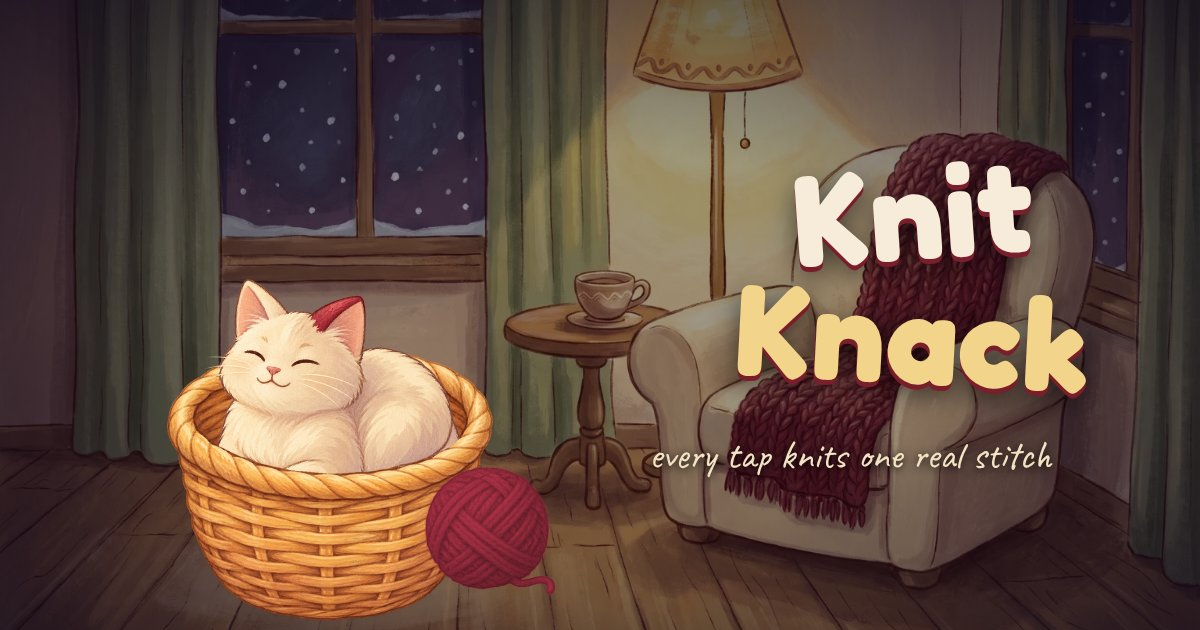
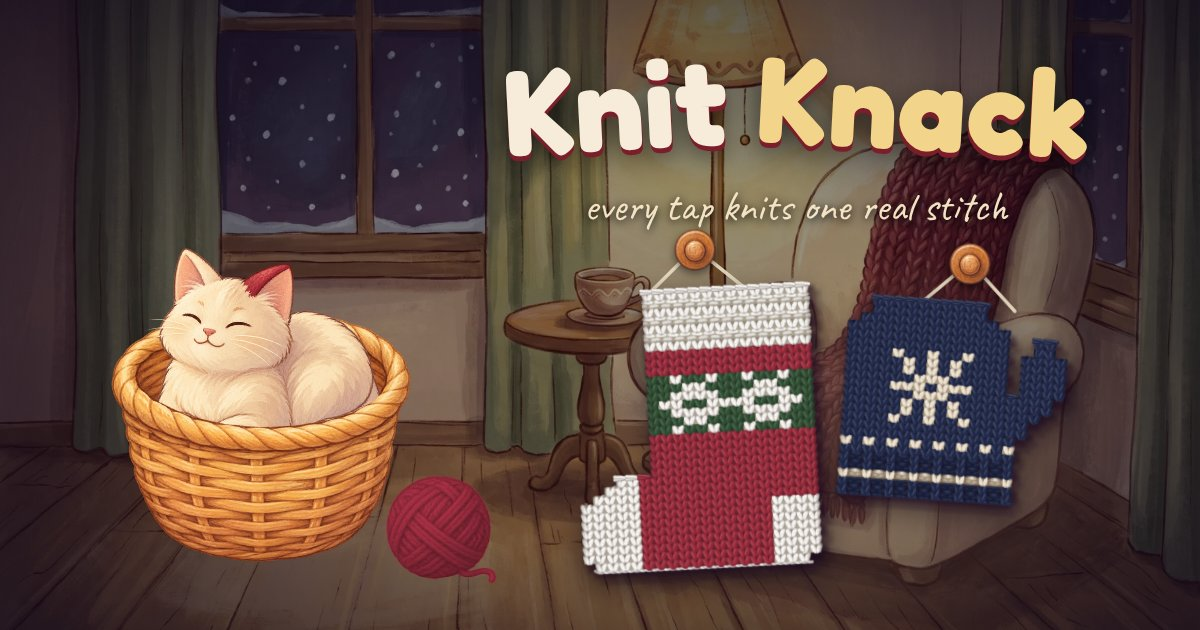
README, screenshots, social card and GitHub preview
The README tours the book, yarns, dolls, Knitting Bag and Infinite Scarf with
screenshots of the running game, and covers how to play, how it was made,
replaying the tests and credits. The social card is remade with a knitted
stocking and mitten drawn by the game's own renderer, and the GitHub preview
is made from the same page at 1280x640.

diff --git a/design/social-card.html b/design/social-card.html
@@ -1,17 +1,62 @@
-<!DOCTYPE html><html><head><meta charset="utf-8"><style>
+<!DOCTYPE html><html><head><meta charset="utf-8">
+<!-- Knit Knack social card, 1200x630. Serve the project root and screenshot at 1200x630
+     once <body data-ready> is set. The knitted pieces are drawn live by the game's own renderer. -->
+<style>
 @font-face { font-family: 'Fredoka'; src: url('../game/fonts/Fredoka.woff2'); font-weight: 300 700; }
 @font-face { font-family: 'Caveat'; src: url('../game/fonts/Caveat.woff2'); }
-html,body{margin:0;width:1200px;height:630px;overflow:hidden;background:#2a1f3d}
-.bg{position:absolute;inset:0;background:url('../game/assets/bg/nook-land.webp') center 70%/cover;filter:brightness(.62) saturate(.95)}
-.v{position:absolute;inset:0;background:radial-gradient(ellipse at 50% 55%,rgba(12,6,24,0) 40%,rgba(12,6,24,.7))}
-.stack{position:absolute;left:150px;top:300px;width:360px;height:360px}
-.stack img{position:absolute;left:0;top:0;width:360px}
-.purl{left:36px!important;top:-56px!important;width:288px!important}
-.ball{position:absolute;left:420px;top:460px;width:140px;height:140px;background:#b8344a;-webkit-mask:url('../game/assets/items/yarn-wool.png') center/contain no-repeat;mask:url('../game/assets/items/yarn-wool.png') center/contain no-repeat}.ball img{width:100%;height:100%;mix-blend-mode:multiply}
-h1{position:absolute;right:110px;top:150px;margin:0;font-family:Fredoka;font-weight:700;font-size:130px;line-height:.95;text-align:center;color:#f6ecd9;text-shadow:0 5px 0 #7a1e2c,0 10px 28px rgba(0,0,0,.6)}
-h1 span{display:block}h1 .b{color:#f2d48a;transform:rotate(3deg)}h1 .a{transform:rotate(-4deg)}
-p{position:absolute;right:90px;top:430px;width:520px;margin:0;font-family:Caveat;font-size:40px;color:#f3e3c4;text-align:center;text-shadow:0 2px 10px #000}
-</style></head><body><div class="bg"></div><div class="v"></div>
+html,body{margin:0;width:var(--w,1200px);height:var(--h,630px);overflow:hidden;background:#2a1f3d}
+.bg{position:absolute;inset:0;background:url('../game/assets/bg/nook-land.webp') center 72%/cover;filter:brightness(.58) saturate(.95)}
+.v{position:absolute;inset:0;background:radial-gradient(ellipse at 50% 55%,rgba(12,6,24,0) 38%,rgba(12,6,24,.72))}
+.glow{position:absolute;left:var(--gx,560px);top:var(--gy,230px);width:620px;height:420px;background:radial-gradient(ellipse at 50% 50%,rgba(255,214,150,.28),rgba(255,214,150,0) 65%)}
+.stack{position:absolute;left:var(--sx,96px);top:var(--sy,268px);width:330px;height:330px}
+.stack img{position:absolute;left:0;top:0;width:330px}
+.stack .purl{left:33px;top:-52px;width:264px}
+.ball{position:absolute;left:var(--bx,382px);top:var(--by,470px);width:118px;height:118px;background:#b8344a;-webkit-mask:url('../game/assets/items/yarn-wool.png') center/contain no-repeat;mask:url('../game/assets/items/yarn-wool.png') center/contain no-repeat}
+.ball img{width:100%;height:100%;mix-blend-mode:multiply}
+h1{position:absolute;left:var(--tx,470px);width:var(--tw,650px);top:var(--ty,44px);margin:0;font-family:Fredoka;font-weight:700;font-size:var(--ts,122px);line-height:1;text-align:center;color:#f6ecd9;text-shadow:0 5px 0 #7a1e2c,0 10px 28px rgba(0,0,0,.6);white-space:nowrap}
+h1 .b{color:#f2d48a;display:inline-block;transform:rotate(3deg)}h1 .a{display:inline-block;transform:rotate(-3deg)}
+p{position:absolute;left:var(--tx,470px);width:var(--tw,650px);top:var(--py,180px);margin:0;font-family:Caveat;font-size:42px;color:#f3e3c4;text-align:center;text-shadow:0 2px 10px #000}
+.piece{position:absolute;filter:drop-shadow(0 10px 14px rgba(10,4,20,.55))}
+.peg{position:absolute;filter:drop-shadow(0 3px 4px rgba(0,0,0,.5))}
+</style></head><body><div class="bg"></div><div class="v"></div><div class="glow"></div>
 <div class="stack"><img src="../game/assets/sprites/basket-back.png"><img class="purl" src="../game/assets/sprites/purl-cat.png"><img src="../game/assets/sprites/basket-front.png"></div>
 <div class="ball"><img src="../game/assets/items/yarn-wool.png"></div>
-<h1><span class="a">Knit</span><span class="b">Knack</span></h1><p>every tap knits one real stitch</p></body></html>
+<h1><span class="a">Knit</span> <span class="b">Knack</span></h1>
+<p>every tap knits one real stitch</p>
+<script type="module">
+import P from '../game/src/patterns.js';
+import { patternRender, suggestedSlots, trimmed } from '../game/src/render.js';
+const css = getComputedStyle(document.documentElement);
+const num = (k, d) => parseFloat(css.getPropertyValue(k)) || d;
+// [pattern, box left, top, max width, max height, tilt]
+const pieces = [
+  ['holiday-stocking', num('--p1x', 560), num('--p1y', 286), 270, 300, -3],
+  ['snowflake-mitten', num('--p2x', 850), num('--p2y', 300), 240, 270, 4],
+];
+for (const [id, x, y, w, h, tilt] of pieces) {
+  const p = P.find((q) => q.id === id);
+  const src = trimmed(patternRender(p, suggestedSlots(p), 20));
+  const k = Math.min(w / src.width, h / src.height);
+  const c = document.createElement('canvas');
+  c.width = Math.round(src.width * k * 2); c.height = Math.round(src.height * k * 2);
+  const g = c.getContext('2d'); g.imageSmoothingQuality = 'high'; g.drawImage(src, 0, 0, c.width, c.height);
+  const cw = c.width / 2, ch = c.height / 2, top = 58;
+  c.className = 'piece';
+  Object.assign(c.style, { width: cw + 'px', height: ch + 'px', left: 0, top: top + 'px' });
+  // hung from a gallery peg on a yarn loop, tilted round the peg
+  const wrap = document.createElement('div');
+  Object.assign(wrap.style, { position: 'absolute', left: x + (w - cw) / 2 + 'px', top: y - top + 'px', width: cw + 'px', height: ch + top + 'px', transform: `rotate(${tilt}deg)`, transformOrigin: `50% 22px` });
+  const svg = document.createElementNS('http://www.w3.org/2000/svg', 'svg');
+  svg.setAttribute('width', cw); svg.setAttribute('height', top + 12); svg.style.position = 'absolute'; svg.style.left = 0; svg.style.top = 0;
+  svg.innerHTML = `<path d="M${cw * 0.3} ${top + 8} L${cw / 2} 20 L${cw * 0.7} ${top + 8}" fill="none" stroke="#e9dcc2" stroke-width="3.5" stroke-linecap="round" stroke-linejoin="round" opacity=".95"/>`;
+  wrap.append(svg, c);
+  document.body.append(wrap);
+  const peg = document.createElement('img');
+  peg.src = '../game/assets/items/gallery-peg.png'; peg.className = 'peg';
+  Object.assign(peg.style, { left: x + w / 2 - 22 + 'px', top: y - top + 0 + 'px', width: '44px' });
+  document.body.append(peg);
+}
+await document.fonts.ready;
+await Promise.all([...document.images].map((i) => i.decode().catch(() => {})));
+document.body.dataset.ready = '1';
+</script></body></html>

diff --git a/design/github-social.html b/design/github-social.html
@@ -1,0 +1,63 @@
+<!DOCTYPE html><html><head><meta charset="utf-8">
+<!-- Knit Knack GitHub preview, 1280x640 (the social card, rebalanced for the wider shape). Serve the project root and screenshot at 1280x640
+     once <body data-ready> is set. The knitted pieces are drawn live by the game's own renderer. -->
+<style>
+@font-face { font-family: 'Fredoka'; src: url('../game/fonts/Fredoka.woff2'); font-weight: 300 700; }
+@font-face { font-family: 'Caveat'; src: url('../game/fonts/Caveat.woff2'); }
+html{--w:1280px;--h:640px;--sx:150px;--sy:262px;--bx:440px;--by:458px;--tx:500px;--tw:640px;--ty:76px;--ts:118px;--py:208px;--gx:600px;--gy:250px}
+html,body{margin:0;width:var(--w,1200px);height:var(--h,630px);overflow:hidden;background:#2a1f3d}
+.bg{position:absolute;inset:0;background:url('../game/assets/bg/nook-land.webp') center 72%/cover;filter:brightness(.58) saturate(.95)}
+.v{position:absolute;inset:0;background:radial-gradient(ellipse at 50% 55%,rgba(12,6,24,0) 38%,rgba(12,6,24,.72))}
+.glow{position:absolute;left:var(--gx,560px);top:var(--gy,230px);width:620px;height:420px;background:radial-gradient(ellipse at 50% 50%,rgba(255,214,150,.28),rgba(255,214,150,0) 65%)}
+.stack{position:absolute;left:var(--sx,96px);top:var(--sy,268px);width:330px;height:330px}
+.stack img{position:absolute;left:0;top:0;width:330px}
+.stack .purl{left:33px;top:-52px;width:264px}
+.ball{position:absolute;left:var(--bx,382px);top:var(--by,470px);width:118px;height:118px;background:#b8344a;-webkit-mask:url('../game/assets/items/yarn-wool.png') center/contain no-repeat;mask:url('../game/assets/items/yarn-wool.png') center/contain no-repeat}
+.ball img{width:100%;height:100%;mix-blend-mode:multiply}
+h1{position:absolute;left:var(--tx,470px);width:var(--tw,650px);top:var(--ty,44px);margin:0;font-family:Fredoka;font-weight:700;font-size:var(--ts,122px);line-height:1;text-align:center;color:#f6ecd9;text-shadow:0 5px 0 #7a1e2c,0 10px 28px rgba(0,0,0,.6);white-space:nowrap}
+h1 .b{color:#f2d48a;display:inline-block;transform:rotate(3deg)}h1 .a{display:inline-block;transform:rotate(-3deg)}
+p{position:absolute;left:var(--tx,470px);width:var(--tw,650px);top:var(--py,180px);margin:0;font-family:Caveat;font-size:42px;color:#f3e3c4;text-align:center;text-shadow:0 2px 10px #000}
+.piece{position:absolute;filter:drop-shadow(0 10px 14px rgba(10,4,20,.55))}
+.peg{position:absolute;filter:drop-shadow(0 3px 4px rgba(0,0,0,.5))}
+</style></head><body><div class="bg"></div><div class="v"></div><div class="glow"></div>
+<div class="stack"><img src="../game/assets/sprites/basket-back.png"><img class="purl" src="../game/assets/sprites/purl-cat.png"><img src="../game/assets/sprites/basket-front.png"></div>
+<div class="ball"><img src="../game/assets/items/yarn-wool.png"></div>
+<h1><span class="a">Knit</span> <span class="b">Knack</span></h1>
+<p>every tap knits one real stitch</p>
+<script type="module">
+import P from '../game/src/patterns.js';
+import { patternRender, suggestedSlots, trimmed } from '../game/src/render.js';
+const css = getComputedStyle(document.documentElement);
+const num = (k, d) => parseFloat(css.getPropertyValue(k)) || d;
+// [pattern, box left, top, max width, max height, tilt]
+const pieces = [
+  ['holiday-stocking', 610, 322, 236, 244, -3],
+  ['snowflake-mitten', 876, 334, 220, 228, 4],
+];
+for (const [id, x, y, w, h, tilt] of pieces) {
+  const p = P.find((q) => q.id === id);
+  const src = trimmed(patternRender(p, suggestedSlots(p), 20));
+  const k = Math.min(w / src.width, h / src.height);
+  const c = document.createElement('canvas');
+  c.width = Math.round(src.width * k * 2); c.height = Math.round(src.height * k * 2);
+  const g = c.getContext('2d'); g.imageSmoothingQuality = 'high'; g.drawImage(src, 0, 0, c.width, c.height);
+  const cw = c.width / 2, ch = c.height / 2, top = 58;
+  c.className = 'piece';
+  Object.assign(c.style, { width: cw + 'px', height: ch + 'px', left: 0, top: top + 'px' });
+  // hung from a gallery peg on a yarn loop, tilted round the peg
+  const wrap = document.createElement('div');
+  Object.assign(wrap.style, { position: 'absolute', left: x + (w - cw) / 2 + 'px', top: y - top + 'px', width: cw + 'px', height: ch + top + 'px', transform: `rotate(${tilt}deg)`, transformOrigin: `50% 22px` });
+  const svg = document.createElementNS('http://www.w3.org/2000/svg', 'svg');
+  svg.setAttribute('width', cw); svg.setAttribute('height', top + 12); svg.style.position = 'absolute'; svg.style.left = 0; svg.style.top = 0;
+  svg.innerHTML = `<path d="M${cw * 0.3} ${top + 8} L${cw / 2} 20 L${cw * 0.7} ${top + 8}" fill="none" stroke="#e9dcc2" stroke-width="3.5" stroke-linecap="round" stroke-linejoin="round" opacity=".95"/>`;
+  wrap.append(svg, c);
+  document.body.append(wrap);
+  const peg = document.createElement('img');
+  peg.src = '../game/assets/items/gallery-peg.png'; peg.className = 'peg';
+  Object.assign(peg.style, { left: x + w / 2 - 22 + 'px', top: y - top + 0 + 'px', width: '44px' });
+  document.body.append(peg);
+}
+await document.fonts.ready;
+await Promise.all([...document.images].map((i) => i.decode().catch(() => {})));
+document.body.dataset.ready = '1';
+</script></body></html>

diff --git a/game/index.html b/game/index.html
@@ -19,12 +19,12 @@
 <meta property="og:image" content="https://knitknack.synapticnoise.com/social-card.jpg">
 <meta property="og:image:width" content="1200">
 <meta property="og:image:height" content="630">
-<meta property="og:image:alt" content="A cream cat asleep in a wicker basket beside a ball of cranberry yarn, in a lamplit knitting nook, with the words Knit Knack.">
+<meta property="og:image:alt" content="A cream cat asleep in a wicker basket beside a ball of cranberry yarn in a lamplit knitting nook, with a knitted Fair Isle stocking and a snowflake mitten hanging on pegs, and the words Knit Knack.">
 <meta name="twitter:card" content="summary_large_image">
 <meta name="twitter:title" content="Knit Knack: a cozy tap-to-knit game">
 <meta name="twitter:description" content="Every tap knits one real stitch. 47 real patterns, your own colors and yarns, and a scarf that never ends.">
 <meta name="twitter:image" content="https://knitknack.synapticnoise.com/social-card.jpg">
-<meta name="twitter:image:alt" content="A cream cat asleep in a wicker basket beside a ball of cranberry yarn, in a lamplit knitting nook, with the words Knit Knack.">
+<meta name="twitter:image:alt" content="A cream cat asleep in a wicker basket beside a ball of cranberry yarn in a lamplit knitting nook, with a knitted Fair Isle stocking and a snowflake mitten hanging on pegs, and the words Knit Knack.">
 <link rel="icon" type="image/png" sizes="32x32" href="favicon.png">
 <link rel="apple-touch-icon" href="apple-touch-icon.png">
 <link rel="manifest" href="manifest.webmanifest">

diff --git a/README.md b/README.md
@@ -1,0 +1,159 @@
+# Knit Knack
+
+*Tap, tap, tap: knit anything, one real stitch at a time.*
+
+Every tap knits exactly one stitch. Watch a hat, a mitten, a cable cowl or a little knitted fox
+grow on the needles, stitch by stitch, in the colors and yarns you pick. Work through a book of
+47 real patterns, hang what you make in your gallery, dress a shelf of little dolls in it, and
+keep coming back to the Infinite Scarf, which never ends.
+
+**[▶ Play Knit Knack](https://knitknack.synapticnoise.com/)** in your browser. No install, works
+on desktop and on phones.
+
+![The title screen: a lamplit knitting nook at night, with Purl the cat asleep in her basket](media/screenshots/title.jpg)
+
+## Knitting
+
+Each stitch is drawn the way real knitting looks: knit Vs, purl bumps, cables crossing, lace
+eyelets, colorwork in your own colors. The needles really work the loops, the work turns at
+the end of every row, and the strip below shows the row in real pattern wording
+(`k5 A, k3 B, k6 A`). Change yarn any time, even on a single stitch.
+
+| | |
+|---|---|
+| ![Knitting the Snowflake Mitten halfway, zoomed in: navy and cream stitches on cherry needles](media/screenshots/knitting.jpg) | ![The same mitten on a phone](media/screenshots/knitting-phone.jpg) |
+
+## The Pattern Book
+
+47 patterns in 7 chapters: **First Stitches**, **Warm Things**, **Colorwork**, **Cables and
+Texture**, **Lace**, **Knitted Friends** (a bunny, a cat, a whale, a frog, a penguin, an
+octopus, a fox and a teddy bear) and **Big Projects** (a tea cosy, a stocking, a dog sweater,
+blankets, a yoke sweater, a cardigan and an heirloom afghan). You start with three, and every
+piece you finish unlocks the next.
+
+Every pattern is a real one you could knit, with a full written pattern behind
+**Read the pattern**.
+
+| | |
+|---|---|
+| ![The Colorwork chapter of the Pattern Book, with a Fair Isle coaster, a heart pillow, a strawberry pouch and more](media/screenshots/book.jpg) | ![The written pattern for the Snowflake Mitten, row by row](media/screenshots/read-the-pattern.jpg) |
+
+## Yarn
+
+Pick from 30 colors or mix your own, in eight kinds of yarn that each knit up differently:
+**wool** and **cotton** to start, then **chunky**, fuzzy **mohair**, twinkling **sparkle**,
+**self-striping**, rich **velvet**, and **glow** yarn that shines when you turn the gallery
+lights out. Follow the chart and colorwork appears by itself, or go freestyle and color every
+stitch your own way.
+
+## Finishing and the gallery
+
+When the last stitch is done, the piece is bound off and blocked, Purl wakes up to cheer, and
+you hang it on your gallery wall.
+
+| | |
+|---|---|
+| ![The finished screen: "Bound off and blocked!", the Snowflake Mitten shown on Pip the doll](media/screenshots/finished.jpg) | ![The gallery wall: a star, socks, a teddy bear, a sweater, a blanket, a strawberry pouch, a fox, a shawlette, a cowl and a stocking hanging on pegs](media/screenshots/gallery.jpg) |
+
+## The dolls
+
+Meet Pip, Clementine, Bramble, Juniper, Basil, Mabel and Purl herself, and dress them in the hats,
+cowls, sweaters, mittens and socks you knit, stitch for stitch as you made them.
+
+| | |
+|---|---|
+| ![The Doll Shelf: seven dolls in knitted hats, sweaters, cowls, mittens and socks](media/screenshots/doll-shelf.jpg) | ![Dressing Pip on a phone: a bobble hat, a yoke sweater, snowflake mittens and socks](media/screenshots/dressing-phone.jpg) |
+
+## The Knitting Bag
+
+There's no shop and no money. As you knit you unlock 12 pairs of needles (bamboo to clear
+glass, each with its own click), stitch markers, row counters, yarn holders, cozy things for
+the nook, and a collar, bell and cushion for Purl. They change how things look and sound;
+nothing ever knits for you.
+
+![The Knitting Bag: twelve pairs of needles, from bamboo to heirloom carved oak](media/screenshots/knitting-bag.jpg)
+
+## The Infinite Scarf
+
+A scarf that never ends. Every row adds a centimeter. **How long is it?** stands it up beside
+the last thing it passed and the next one, from a mug and a guitar to a giraffe, a blue whale,
+the Leaning Tower of Pisa and, someday, the Moon, with a knitting fact every so often.
+
+| | |
+|---|---|
+| ![How long is it? A six-meter striped scarf standing between a giraffe and a two-storey house](media/screenshots/scarf-how-long.jpg) | ![The same view on a phone](media/screenshots/scarf-how-long-phone.jpg) |
+
+## How to play
+
+- **Knit a stitch:** tap or click anywhere on the work, or press Space, Enter or K.
+- **Rip back:** the Rip back button (hold to keep ripping), or Backspace or U.
+- **Change yarn:** tap a skein in the yarn bar, or press 1 to 4. Press 5 to 9 for your recent
+  yarns, Y for the whole basket, and C to follow the chart again.
+- **Zoom:** − and + (0 fits the work), or the scroll wheel on a computer.
+- **Preview card:** tap it or press V. **Pattern glossary:** the "?" button or G.
+- **Menu:** Escape or P. **Mute:** M.
+- On a phone, just tap: every finger knits, so two-thumb drumming works. The yarn bar is along
+  the bottom, and Rip back is at the top, out of the way of your thumbs. You can install it
+  from your browser's menu to play full screen, even offline.
+
+There's no losing and no timer. Your pieces in progress, your gallery, your dolls and your scarf
+are all saved in your browser.
+
+Found a bug? Pause and pick "Report a bug", or press Ctrl+Shift+F (you'll need a GitHub account).
+
+## How it was made
+
+Knit Knack was made by [Claude Code](https://claude.com/claude-code) with
+[gamegen](https://github.com/zeveck/gamegen), from this request:
+
+> A game in which you tap to knit. We need a bunch of cool things to knit, with real patterns, and the idea is you have needles and yarn and can pick the color and you knit whatever. You start with a few patterns, but can unlock more. We should have like 47 maybe? But when you "play" it's just a clicker -- each tap of the screen knits one stitch of the work, and you see it form over time. When you finish, you can just "display" the item in your gallery. You can change the color and type of the yarn. They are settable at any time, including on any stitch, so you can make things colored how you want. The key is tap --> knit knit knit until done. You can also work on your "infinite scart" which is just a scarf that gets longer and longer and maybe has some fun graphics/facts to depict the length as it gets longer and longer. --plan-only --share-design --art-sheet --feedback Real patterns the knit graphics/animation should look like you're really knitting the thing you're knitting and reflect color choices.
+
+That made a plan and a design page with a few mock pictures. After a "yes" to sharing the
+plan, the game was built from this follow-up, which added unlockable needles and accessories
+and the doll shelf:
+
+> --art-sheet --budget 50 --out knit-knack --feedback it's critical they be real patterns, real knits, and tapping produces good looking knit animations that track and help you feel like you're making the thing and it looks right and reflects your colors and yarn. you should be able to unlock needles and accessories and such. maybe small dolls to put your knits on. --publish --no-confirm
+
+gamegen designed the game, had review agents polish the design, made the art, animation, music
+and sound with these plugins, built it, and play-tested it:
+
+| | |
+|---|---|
+| <img src="media/made-with/nanogen-nook.jpg" width="180" alt="The painted knitting nook"> | [nanogen](https://github.com/zeveck/nanogen): the knitting nook backgrounds (landscape and portrait), the wood, paper and yarn-fibre textures, and the knitted swatches the stitch drawing was tuned against. |
+| <img src="media/made-with/imagegen2-cast.png" width="180" alt="Purl, a teacup yarn bowl, and the dolls Pip, Clementine, Bramble and Basil, and a giraffe"> | [imagegen2](https://github.com/zeveck/imagegen2): Purl, her basket, the yarn balls, the six dolls, the 20 scarf comparisons (mug to redwood), the yarn holders, nook decor and finishing touches, the props and the app icon. |
+| <img src="media/made-with/anim8gen-purl-cheer.gif" width="120" alt="Purl waking up in her basket and waving a paw"> | [anim8gen](https://github.com/zeveck/anim8gen): Purl's cheer when you finish a piece. |
+| <img src="media/made-with/audiogen-wave.png" width="180" alt="The waveform of one of the nook songs"> | [audiogen](https://github.com/zeveck/audiogen): 5 songs (three for the nook, one for the gallery, one for the scarf) and 22 sounds, from wooden, metal and glass needle clicks to Purl's mew and purr. |
+
+The stitches, needles, dolls' outfits, scarf sky and everything else are drawn in code, so
+every piece shows exactly the yarns you chose. A knitting tech editor reviewed all 47 written
+patterns, and every problem it found was fixed.
+
+## Replaying the tests
+
+The patterns are checked by the same code the game runs:
+
+- `node tools/check-chart.mjs` checks the chart engine on a few test charts: the row map, the
+  wording and the round trip from text back to rows.
+- `node tools/check-patterns.mjs` checks all 47 patterns: repeats, shaping, cables and lace
+  only on right-side rows, stitch counts, and that every written pattern reads back exactly.
+  Add `--solve` to run every pattern's whole stitch order, or `--text` to write all the
+  written patterns to `tools/patterns.txt`.
+- `node tools/solutions.mjs` plays the whole game in a browser from a fresh save: all 47
+  patterns in book order, with yarn changes, rip backs and reloads along the way, then checks
+  every unlock fired once. It serves the game itself and needs Playwright.
+
+## Playing locally
+
+Knit Knack is a plain web page with no build step. Serve the `game` folder with any static web
+server, for example:
+
+    cd game
+    python3 -m http.server 8000
+
+then open http://localhost:8000.
+
+## Credits
+
+The idea is Rich Conlan's. The fonts are [Fredoka](https://fonts.google.com/specimen/Fredoka)
+and [Caveat](https://fonts.google.com/specimen/Caveat), both under the SIL Open Font License
+(bundled in `game/fonts/`).
